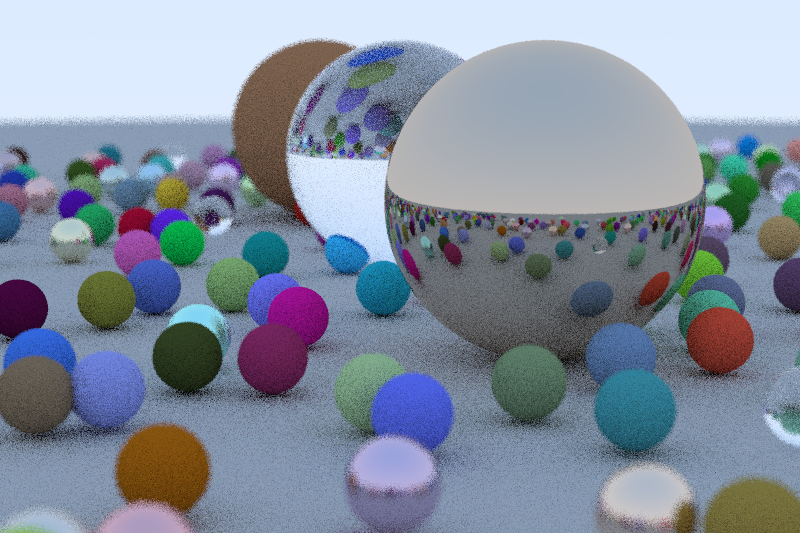
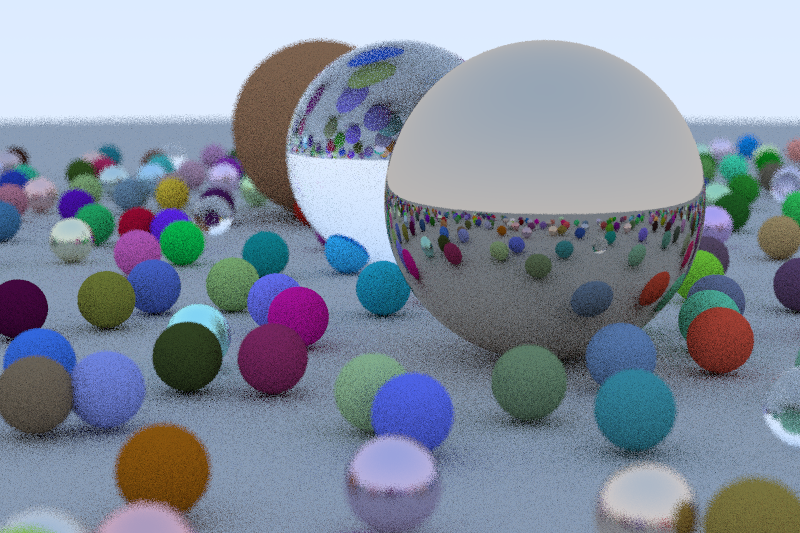
remove recursion in hit logic

Changed region(s): [[0.375, 0.8105, 0.9062, 0.8405], [0.0, 0.8105, 0.1875, 0.8405], [0.25, 0.8105, 0.2812, 0.8405]]

diff --git a/src/spatial.rs b/src/spatial.rs
@@ -7,6 +7,7 @@ pub trait Hitable {
     fn hit(&self, ray: Ray, t_min: f32, t_max: f32, world: &World, out_hit: &mut HitRecord) -> bool;
 }
 
+#[derive(Copy, Clone, Default)]
 struct PackedIdx {
     value: i32
 }
@@ -312,52 +313,6 @@ impl QBVH {
         QBVH { tree: Vec::new() }
     }
 
-    fn hit_node(child_idx: usize, hit_any_node: &mut bool, r: Ray, t_min: f32, closest_t: &mut f32, current_node: &QBVHNode, bvh: &QBVH, world: &World, out_hit: &mut HitRecord) {
-        let child = &current_node.children[child_idx];
-        assert!(!child.is_empty_leaf());
-  
-        if child.is_leaf() {
-            let (c_idx, c_count) = child.leaf_get_idx_count();
-            // if hit(world, c_idx as usize, c_count as usize, r, t_min, *closest_t, out_hit) {
-            if hit_simd(world, c_idx as usize, c_count as usize, r, t_min, *closest_t, out_hit) {
-                *hit_any_node = true;
-                *closest_t = out_hit.t;
-            }
-        }
-        else {
-            let child_node = &bvh.tree[child.joint_get_idx() as usize];
-            if QBVH::hit_world(r, t_min, *closest_t, child_node, bvh, world, out_hit) {
-                *hit_any_node = true;
-                *closest_t = out_hit.t;
-            }
-        }
-    }
-
-    fn hit_world(r: Ray, t_min: f32, t_max: f32, current_node: &QBVHNode, bvh: &QBVH, world: &World, out_hit: &mut HitRecord) -> bool {        
-        let (hit_mask, any_hit) = QBVH::hit_node_children(current_node, r, t_min, t_max);
-        if !any_hit {
-            return false;
-        }
-
-        let mut hit_any_node = false;
-        let mut closest_t = t_max;
-
-        if hit_mask[0] {
-            QBVH::hit_node(0, &mut hit_any_node, r, t_min, &mut closest_t, current_node, bvh, world, out_hit);            
-        }
-        if hit_mask[1] {
-            QBVH::hit_node(1, &mut hit_any_node, r, t_min, &mut closest_t, current_node, bvh, world, out_hit);            
-        }
-        if hit_mask[2] {
-            QBVH::hit_node(2, &mut hit_any_node, r, t_min, &mut closest_t, current_node, bvh, world, out_hit);            
-        }
-        if hit_mask[3] {
-            QBVH::hit_node(3, &mut hit_any_node, r, t_min, &mut closest_t, current_node, bvh, world, out_hit);            
-        }
-
-        hit_any_node
-    }
-
     fn hit_node_children(node: &QBVHNode, r: Ray, t_min: f32, t_max: f32) -> ([bool;4], bool) {
         let min_x = f32x4::loadu(&node.bb_min_x);
         let min_y = f32x4::loadu(&node.bb_min_y);
@@ -428,11 +383,43 @@ impl QBVH {
 
         (u32x4::get_flags(any_miss), any_miss.any())
     }
+    
+    pub fn hit_qbvh(bvh: &QBVH, r: Ray, t_min: f32, t_max: f32, world: &World, out_hit: &mut HitRecord) -> bool {
+        let mut nodes_to_check : Vec<PackedIdx> = Vec::new();
+        nodes_to_check.reserve(32);
+        nodes_to_check.push(PackedIdx::new_joint(0));
+
+        let mut hit_any_node = false;
+        let mut closest_t = t_max;
+        
+        while nodes_to_check.len() > 0 {
+            let next_node = nodes_to_check.pop().unwrap();
+            
+            if next_node.is_leaf() {
+                let (c_idx, c_count) = next_node.leaf_get_idx_count();
+                if hit_simd(world, c_idx as usize, c_count as usize, r, t_min, closest_t, out_hit) {
+                    hit_any_node = true;
+                    closest_t = out_hit.t;
+                }
+            } else {
+                let bvh_node = &bvh.tree[next_node.joint_get_idx() as usize];
+                let (hit_mask, any_hit) = QBVH::hit_node_children(bvh_node, r, t_min, t_max);
+                if any_hit {
+                    if hit_mask[0] { nodes_to_check.push(bvh_node.children[0]) }; 
+                    if hit_mask[1] { nodes_to_check.push(bvh_node.children[1]) };
+                    if hit_mask[2] { nodes_to_check.push(bvh_node.children[2]) };
+                    if hit_mask[3] { nodes_to_check.push(bvh_node.children[3]) };
+                }
+            }
+        }
+
+        hit_any_node
+    }
 }
 
 impl Hitable for QBVH {
     fn hit(&self, ray: Ray, t_min: f32, t_max: f32, world: &World, out_hit: &mut HitRecord) -> bool {
-        return QBVH::hit_world(ray, t_min, t_max, &self.tree[0], &self, world, out_hit);
+        QBVH::hit_qbvh(&self, ray, t_min, t_max, world, out_hit)
     }
 }
 
